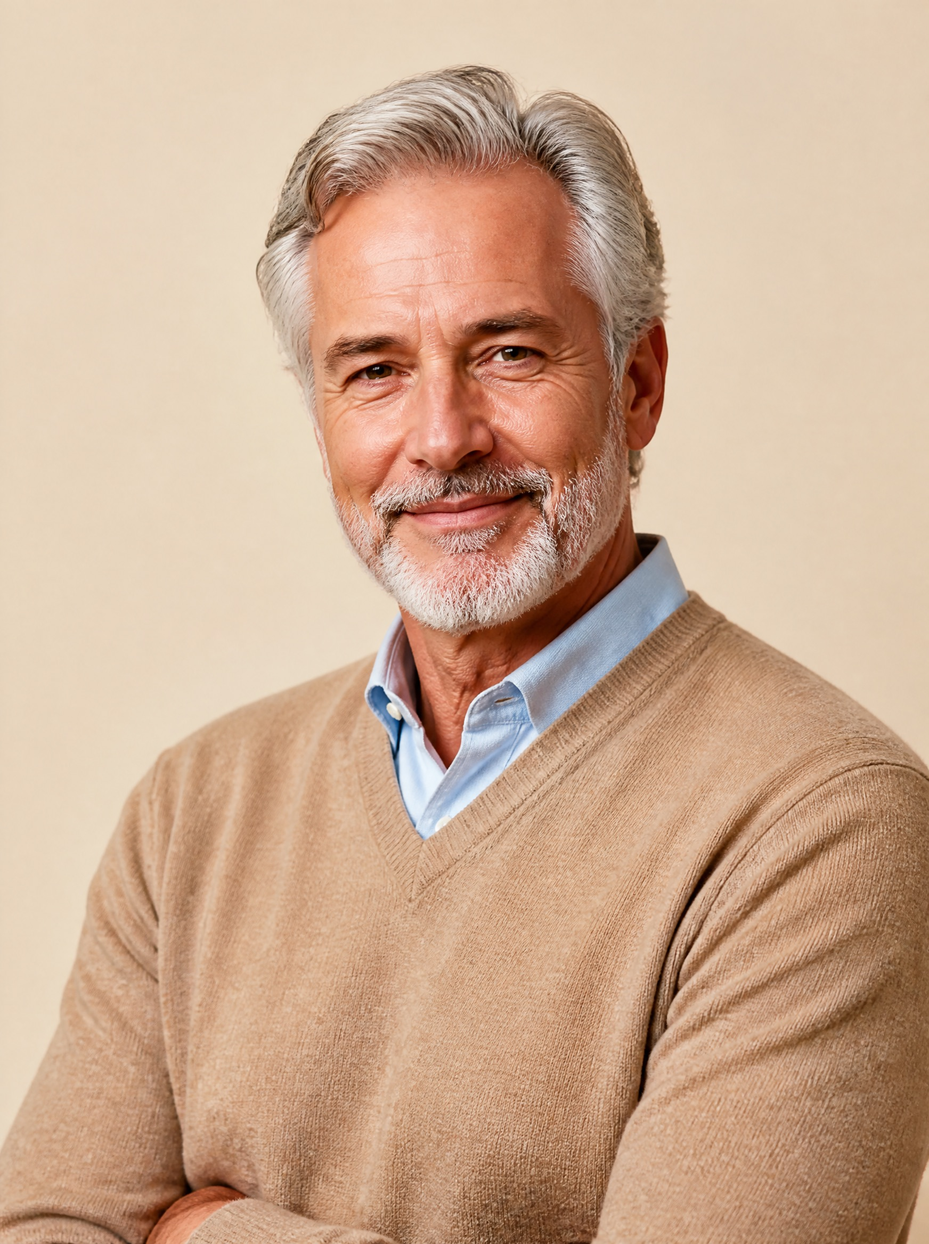
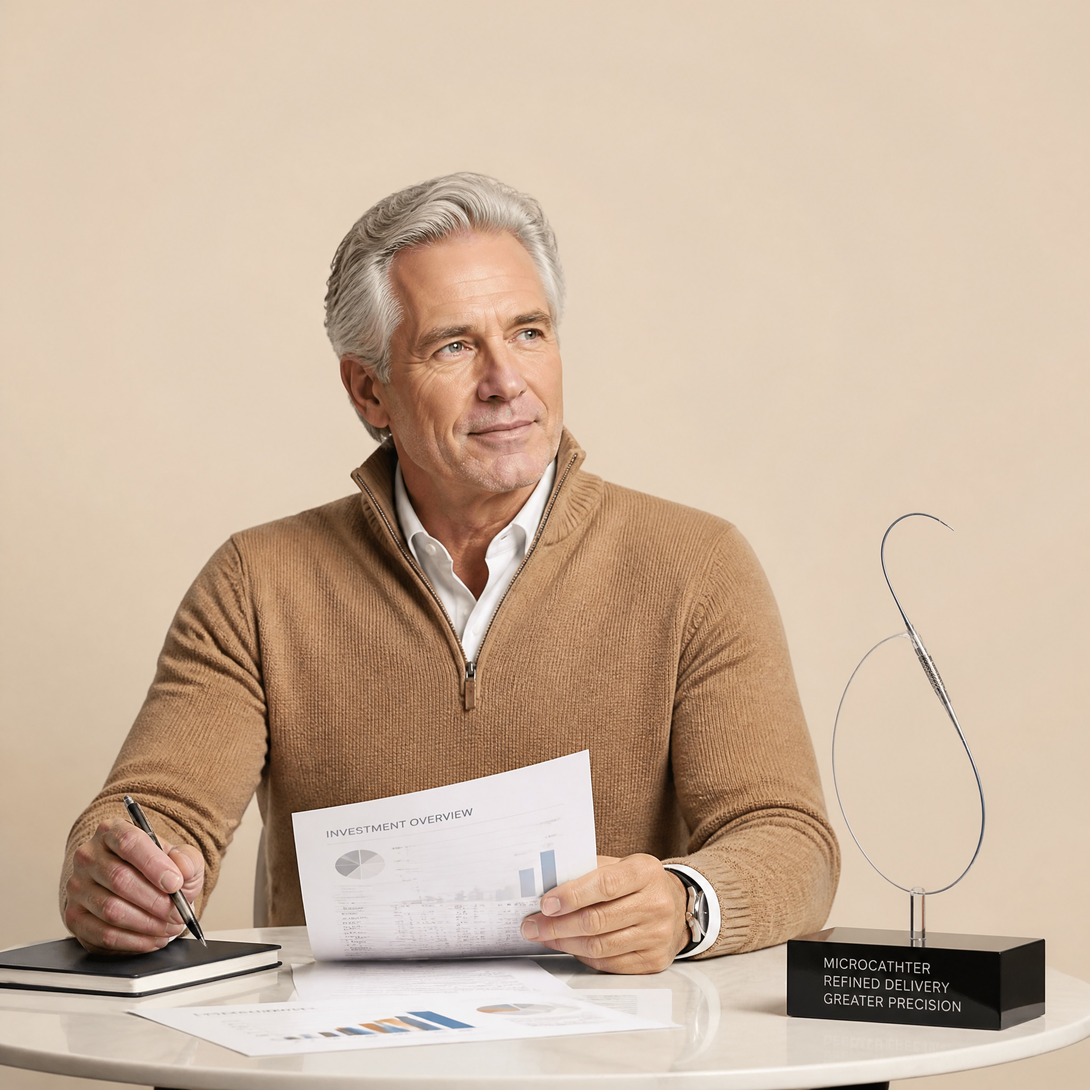
Focus section on light ground with topic-matched imagery; philosophy photos recast as medical-VC scenes
- Focus: dark band -> site background, ink text, dashed hairlines; four new
  topic images (neuro microcatheter, transcatheter valve, surgical set,
  connected-care tablet) matching each row's copy
- Philosophy cards: portraits regenerated as medical-VC scenes echoing each
  statement (investor+founder with device, document review beside device,
  advisor mentoring engineer, physician presenting implant), studio backdrops
  still matched to panel colors

diff --git a/src/components/amed/rx/sections.tsx b/src/components/amed/rx/sections.tsx
@@ -465,28 +465,18 @@ export function RxFocusCards() {
   }, [active]);
 
   return (
-    <section style={{ background: "var(--rx-dark)", color: "rgba(255,255,255,0.72)" }}>
-      <div
-        className="rx-frame px-6 py-16 md:px-10 md:py-24"
-        style={{ borderColor: "var(--rx-dark-line)" }}
-      >
+    <section className="rx-sep">
+      <div className="rx-frame px-6 py-16 md:px-10 md:py-24">
         <div className="mx-auto max-w-[44rem] text-center">
           <FadeUp>
-            <span
-              className="rx-chip"
-              style={{ background: "rgba(255,255,255,0.1)", color: "#fff" }}
-            >
-              {RX_FOCUS.chip}
-            </span>
+            <span className="rx-chip">{RX_FOCUS.chip}</span>
           </FadeUp>
           <SlideIn className="rx-h2 mt-6">
-            <span style={{ color: "#fff" }}>
-              {RX_FOCUS.title.map((line) => (
-                <span key={line} className="block">
-                  {line}
-                </span>
-              ))}
-            </span>
+            {RX_FOCUS.title.map((line) => (
+              <span key={line} className="block">
+                {line}
+              </span>
+            ))}
           </SlideIn>
           <FadeUp delay={0.1}>
             <p className="mt-6">{RX_FOCUS.intro}</p>
@@ -507,18 +497,18 @@ export function RxFocusCards() {
                   type="button"
                   onClick={() => setActive(i)}
                   className="flex w-full items-center gap-6 py-8 text-left md:gap-10"
-                  style={{ borderTop: "1px solid var(--rx-dark-line)" }}
+                  style={{ borderTop: "1px dashed var(--rx-line)" }}
                 >
                   <span
                     className="text-sm font-bold transition-colors duration-300"
-                    style={{ color: isActive ? "var(--rx-accent)" : "rgba(255,255,255,0.45)" }}
+                    style={{ color: isActive ? "var(--rx-accent)" : "rgba(20,19,26,0.4)" }}
                   >
                     {row.index}
                   </span>
                   <span className="flex-1">
                     <span
                       className="rx-serif block text-3xl transition-colors duration-300 md:text-5xl"
-                      style={{ color: isActive ? "var(--rx-accent)" : "#fff" }}
+                      style={{ color: isActive ? "var(--rx-accent)" : "var(--rx-ink)" }}
                     >
                       {row.title}
                     </span>
@@ -549,7 +539,7 @@ export function RxFocusCards() {
               </div>
             );
           })}
-          <div style={{ borderTop: "1px solid var(--rx-dark-line)" }} />
+          <div style={{ borderTop: "1px dashed var(--rx-line)" }} />
         </div>
       </div>
     </section>

diff --git a/src/lib/amed/rx-content.ts b/src/lib/amed/rx-content.ts
@@ -93,7 +93,7 @@ export const RX_FOCUS = {
       desc: "Stroke and neurovascular platforms across the continuum of care",
       detail:
         "Stroke and neurovascular platforms across the continuum of care — from intervention to recovery. We back teams turning technical insight into solutions that can earn trust in real care settings.",
-      image: asset("/amed/images/thesis-01-intervention.jpg"),
+      image: asset("/amed/images/focus-01.jpg"),
     },
     {
       index: "02",
@@ -101,7 +101,7 @@ export const RX_FOCUS = {
       desc: "Structural heart, circulatory support and vascular intervention",
       detail:
         "Structural heart, circulatory support and vascular intervention — innovative solutions with the potential to improve patient outcomes and healthcare delivery.",
-      image: asset("/amed/images/thesis-02-founders.jpg"),
+      image: asset("/amed/images/focus-02.jpg"),
     },
     {
       index: "03",
@@ -109,7 +109,7 @@ export const RX_FOCUS = {
       desc: "Biomaterials, implants and devices for the operating room",
       detail:
         "Biomaterials, implants and devices for the operating room — the long work between a promising idea and trusted care, where evidence, execution and endurance turn possibility into practice.",
-      image: asset("/amed/images/practice-b-operating.jpg"),
+      image: asset("/amed/images/focus-03.jpg"),
     },
     {
       index: "04",
@@ -117,7 +117,7 @@ export const RX_FOCUS = {
       desc: "Software and connected care that extends treatment beyond the hospital",
       detail:
         "Software and connected care that extends treatment beyond the hospital — supporting patients and clinicians across Asia and the United States.",
-      image: asset("/amed/images/thesis-03-outcome.jpg"),
+      image: asset("/amed/images/focus-04.jpg"),
     },
   ],
   areasLabel: "Areas may include",
